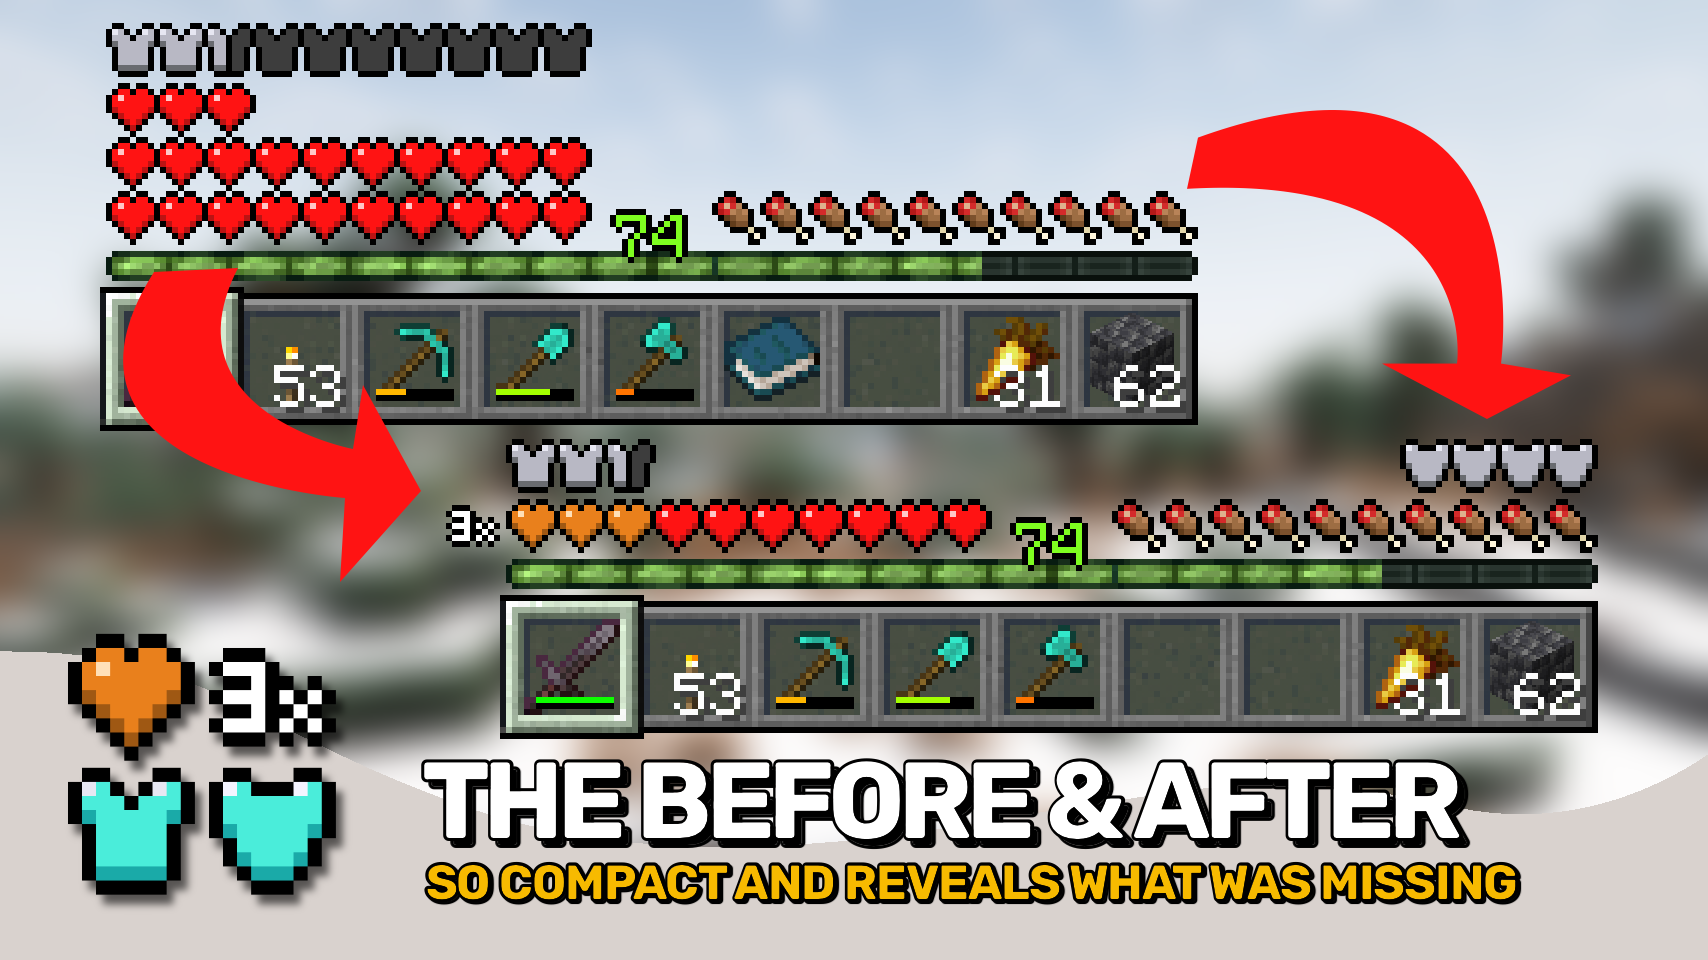
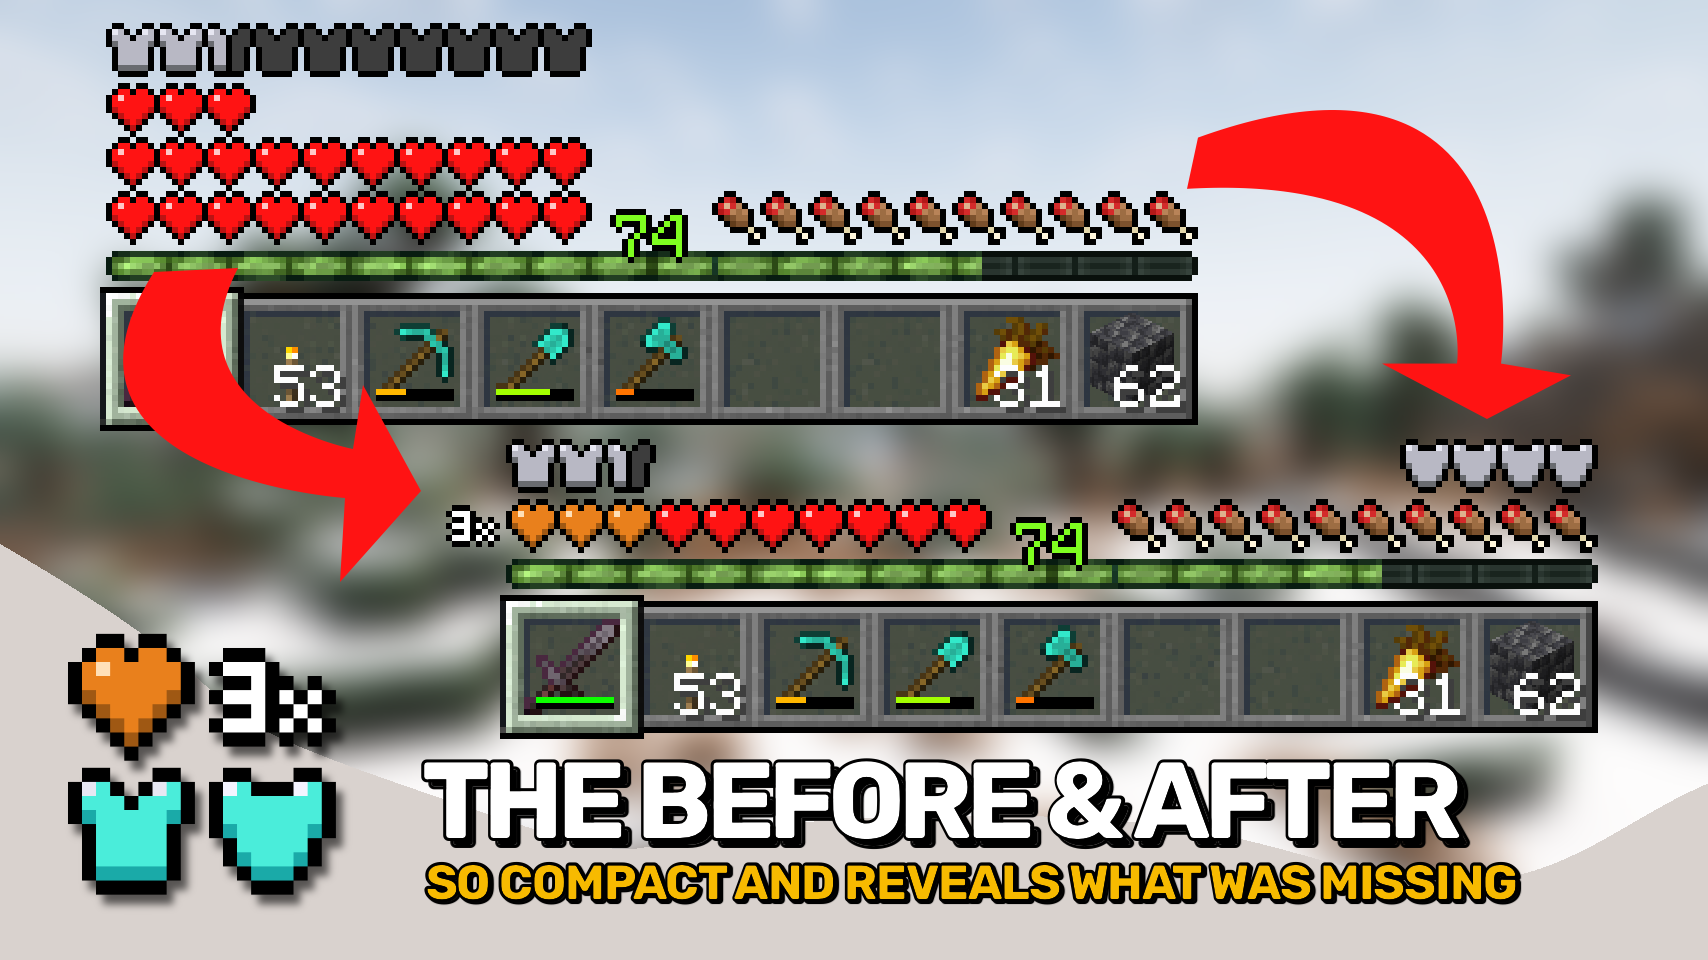
stoneworks

diff --git a/pages/data/overflowingbars/features.md b/pages/data/overflowingbars/features.md
@@ -1,6 +1,6 @@
 + Only ever uses two colors: the vanilla base color + orange / light blue. A tiny number to the side tells you how many layers are stacked on top instead of making you guess from the current color.
 + Stacks hearts on top of each other when you have more than 10 hearts. The stacked layer will always show as orange.
-+ Stack armor points on top of each other when you have more than 20 points. The stacked layer shows light blue.
++ Stack armor points on top of each other when you have more than 20 points. The stacked layer shows light blue. Only as many armor icons as necessary are shown.
 + Adds a display for armor toughness right above the food bar, behaves just like the armor bar (can be moved left if you prefer).
 + Also fixes incoming chat messages to no longer hide the armor bar.
 + Fully configurable! Change stacking behavior, number display and so much more!

diff --git a/pages/data/stoneworks/about.md b/pages/data/stoneworks/about.md
@@ -1,0 +1,1 @@
+Stoneworks fills in all the missing gaps when it comes to building with various vanilla stone blocks! Finally there are cobbled versions, bricks, tiles, pillars, shingles and so much more for all stone variants. And there is more: most variations can even be crafted into stairs, slabs and walls. Everything is crafted in a stonecutter. What are you waiting for? Let's get building!

diff --git a/pages/data/stoneworks/credits.md b/pages/data/stoneworks/credits.md
@@ -1,0 +1,2 @@
++ Thanks to [Burack](https://www.curseforge.com/members/zburack_) for making all those textures for me to use.
++ Thanks to [ShadowClaimer](https://www.curseforge.com/members/shadowclaimer) and their [Masonry](https://www.curseforge.com/minecraft/mc-mods/masonry) mod for inspiring this project.
